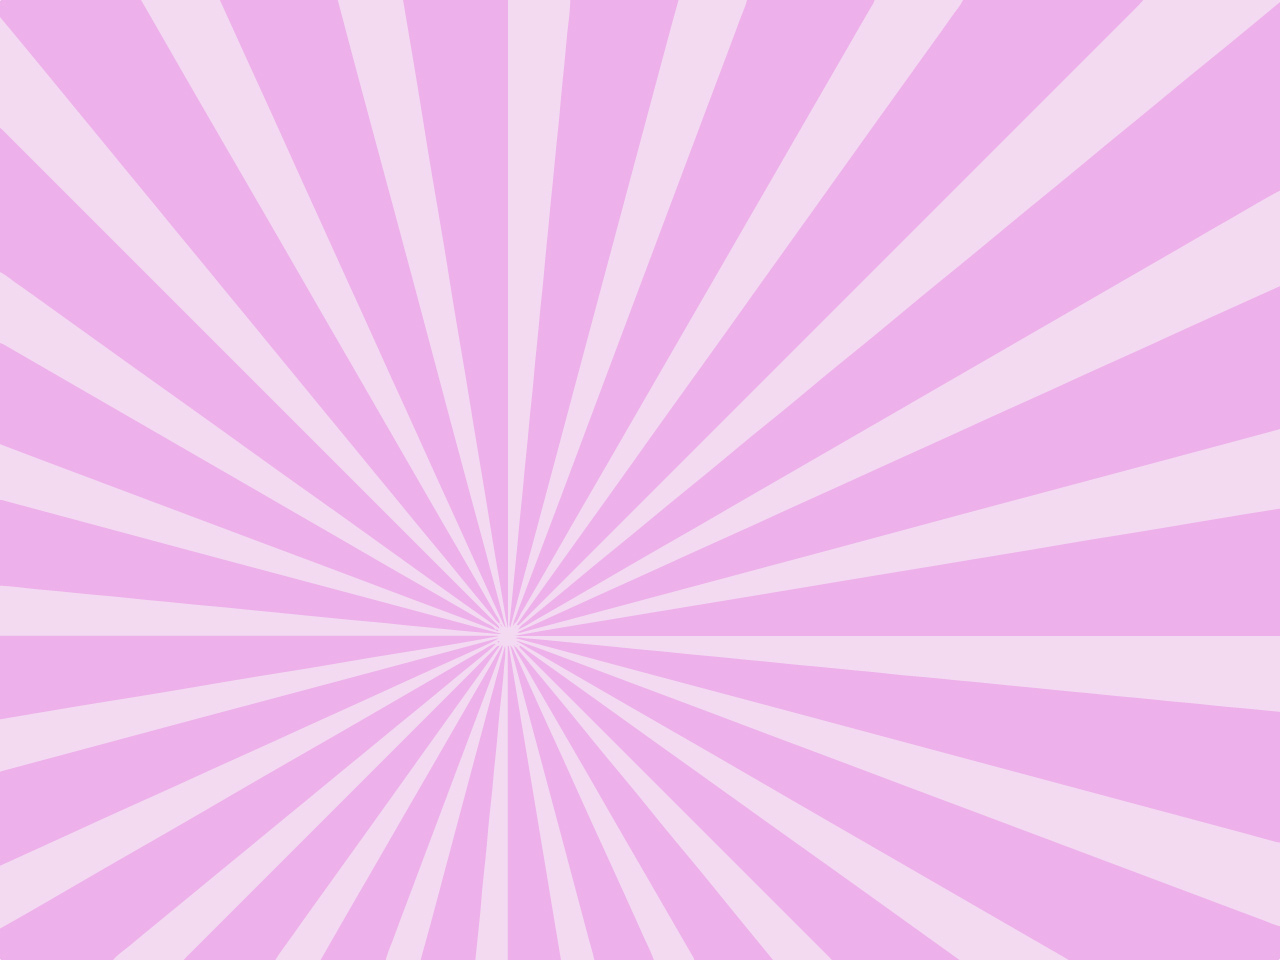
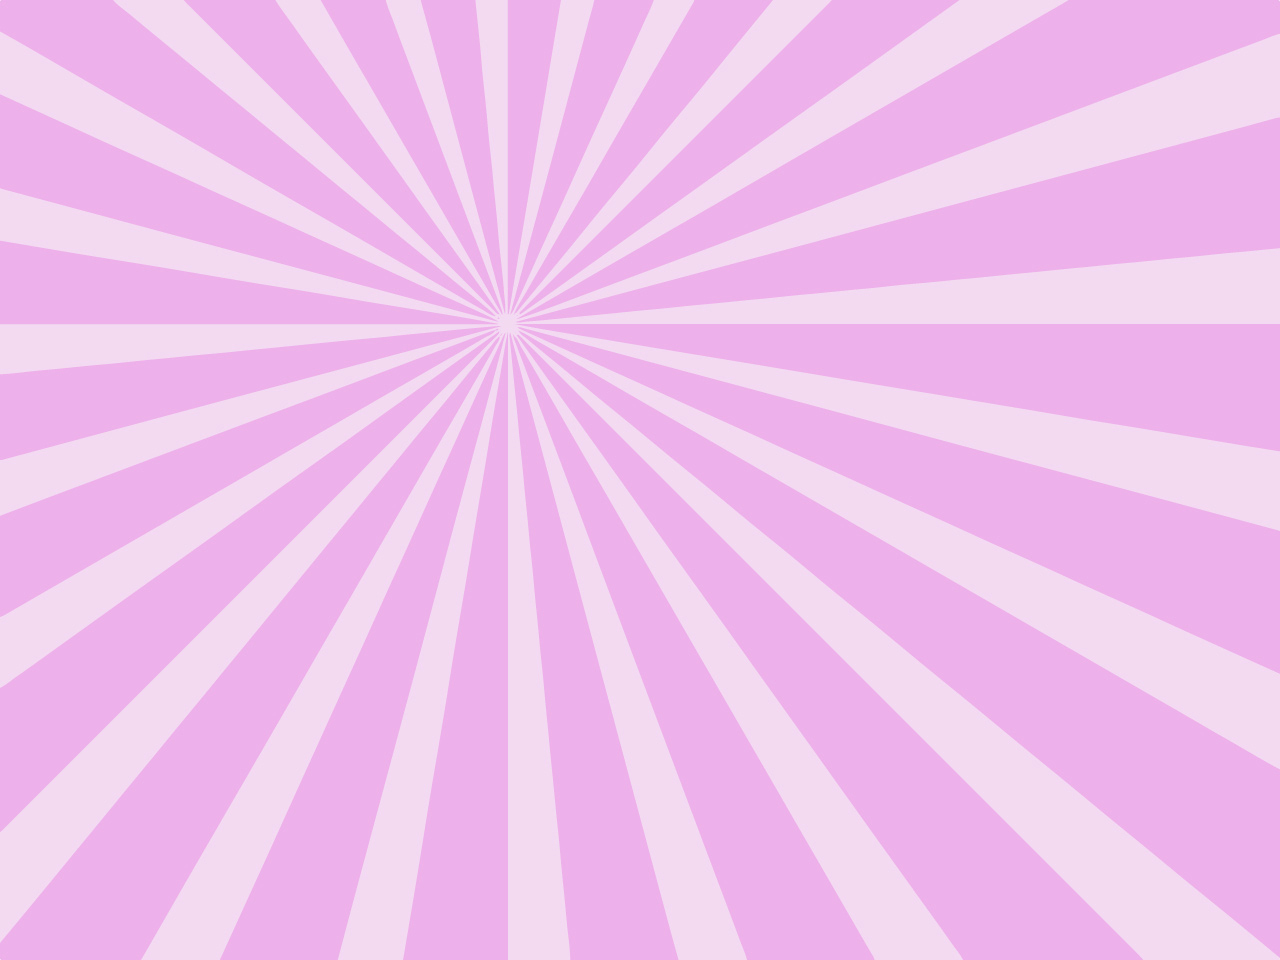
fixed background

diff --git a/public/index.html b/public/index.html
@@ -28,7 +28,7 @@ align-items: center;
   background-image: url('./starburstbackground.jpg');
   background-size: cover;
   background-repeat: no-repeat;
-  background-position: center top;
+  background-position: left top;
 
 }
 .header{
